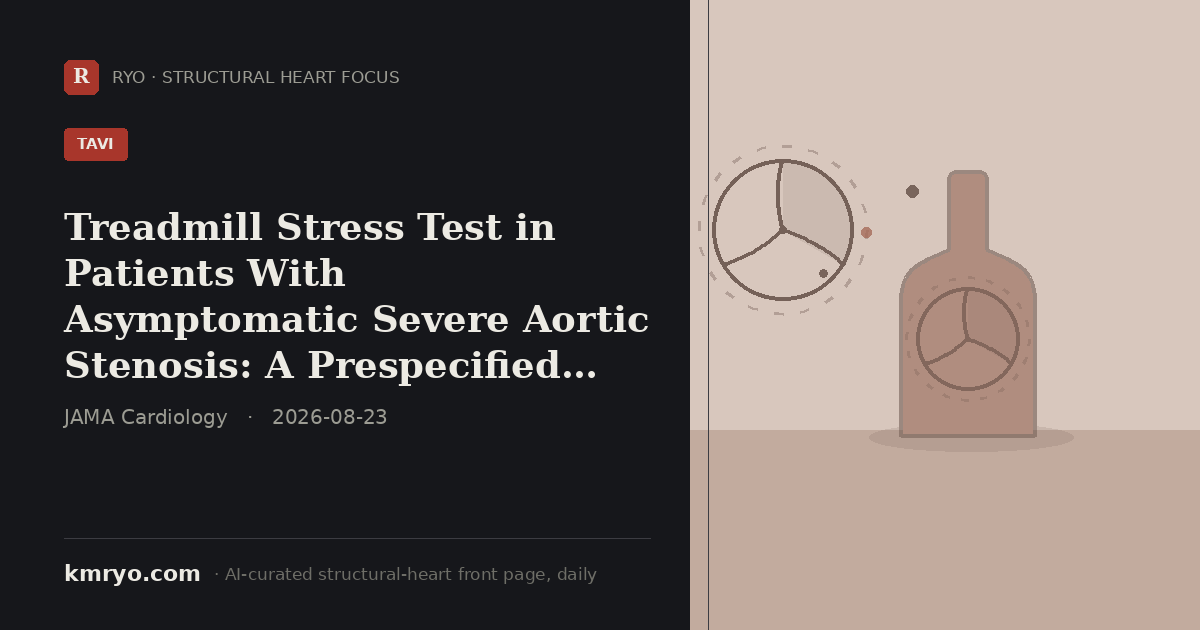
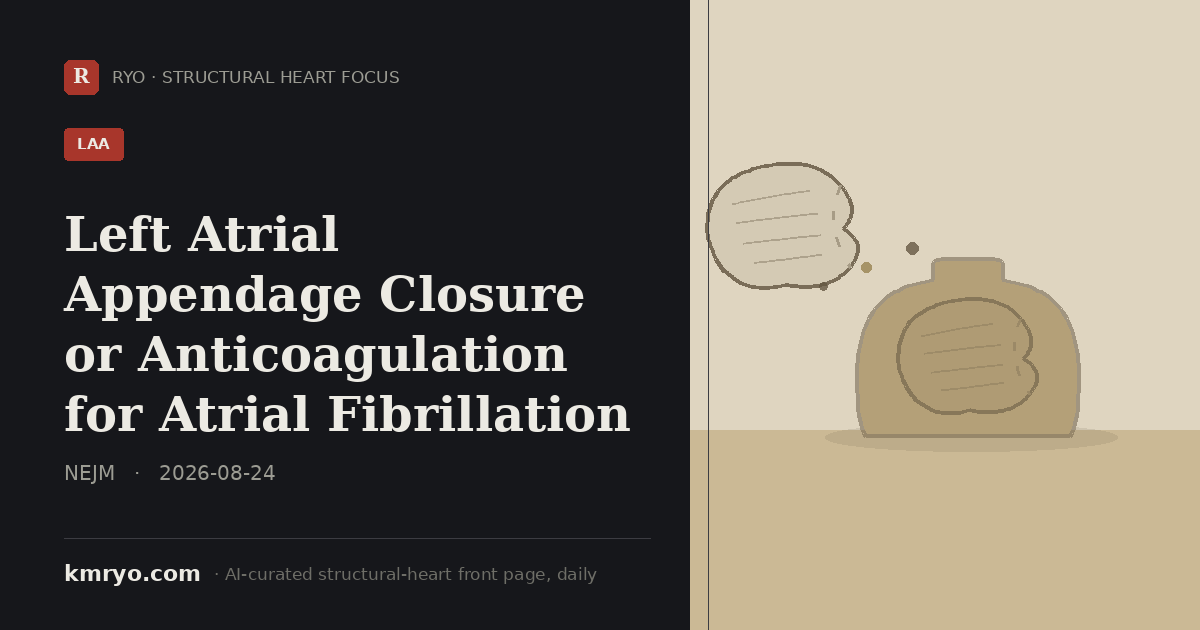
pulse: 2026-08-24 daily update

diff --git a/index.html b/index.html
@@ -6,8 +6,8 @@
 <title>Structural Heart Focus — Daily | Dr. Mi Chen · 千觅量子 RYO</title>
 <meta name="description" content="Structural Heart Focus — the day's most important structural-heart reading (top journals, major meetings and the field's conversation), curated daily by an AI agent from inside the Zurich hybrid room. By Dr. Mi Chen · 千觅量子 RYO.">
 <!-- Social share card. Regenerated daily by the pulse agent (pulse/make_share_card.py); og:title/description updated to the day's top story so LinkedIn/WeChat/X show today's headline, not a static portrait. -->
-<meta property="og:title" content="Treadmill Stress Test in Patients With Asymptomatic Severe Aortic Stenosis">
-<meta property="og:description" content="A prespecified EARLY TAVR registry follow-up finds 15.2% of asymptomatic severe AS patients test positive on treadmill stress testing, yet 20% remain untreated a year later.">
+<meta property="og:title" content="Left Atrial Appendage Closure or Anticoagulation for Atrial Fibrillation">
+<meta property="og:description" content="The CHAMPION-AF randomized trial (n=3,000) finds Watchman FLX noninferior to NOACs for stroke prevention and superior for bleeding, a 45% relative reduction at 3 years.">
 <meta property="og:image" content="https://www.kmryo.com/pulse/img/share/card.png">
 <meta property="og:image:width" content="1200">
 <meta property="og:image:height" content="630">
@@ -16,8 +16,8 @@
 <meta property="og:type" content="website">
 <meta property="og:site_name" content="kmryo.com · Structural Heart Focus">
 <meta name="twitter:card" content="summary_large_image">
-<meta name="twitter:title" content="Treadmill Stress Test in Patients With Asymptomatic Severe Aortic Stenosis">
-<meta name="twitter:description" content="A prespecified EARLY TAVR registry follow-up finds 15.2% of asymptomatic severe AS patients test positive on treadmill stress testing, yet 20% remain untreated a year later.">
+<meta name="twitter:title" content="Left Atrial Appendage Closure or Anticoagulation for Atrial Fibrillation">
+<meta name="twitter:description" content="The CHAMPION-AF randomized trial (n=3,000) finds Watchman FLX noninferior to NOACs for stroke prevention and superior for bleeding, a 45% relative reduction at 3 years.">
 <meta name="twitter:image" content="https://www.kmryo.com/pulse/img/share/card.png">
[1 lines of base64/hex data omitted]
 <link rel="preconnect" href="https://fonts.googleapis.com">
